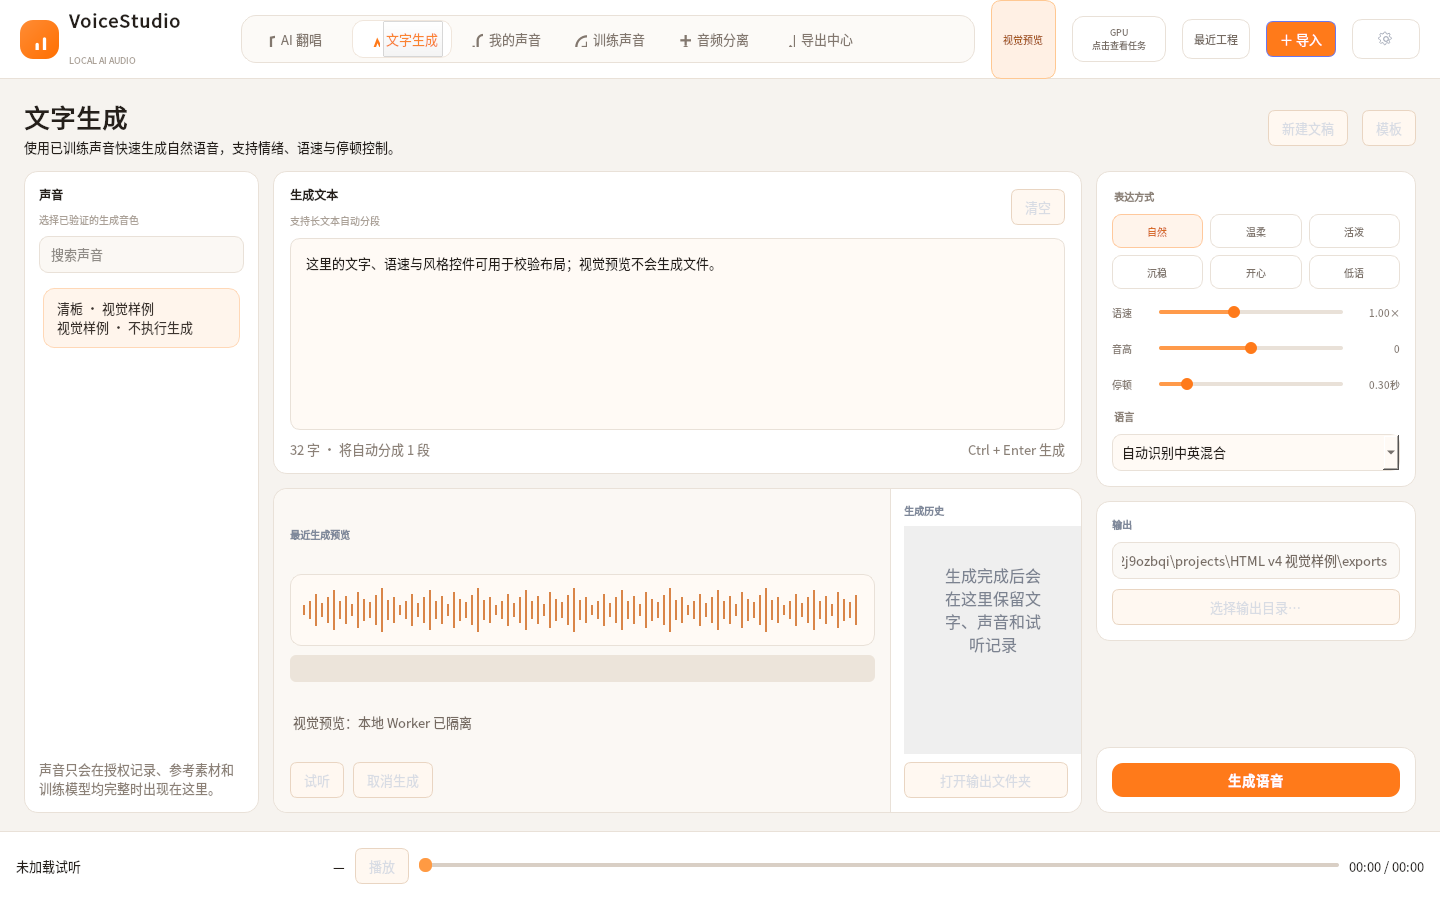
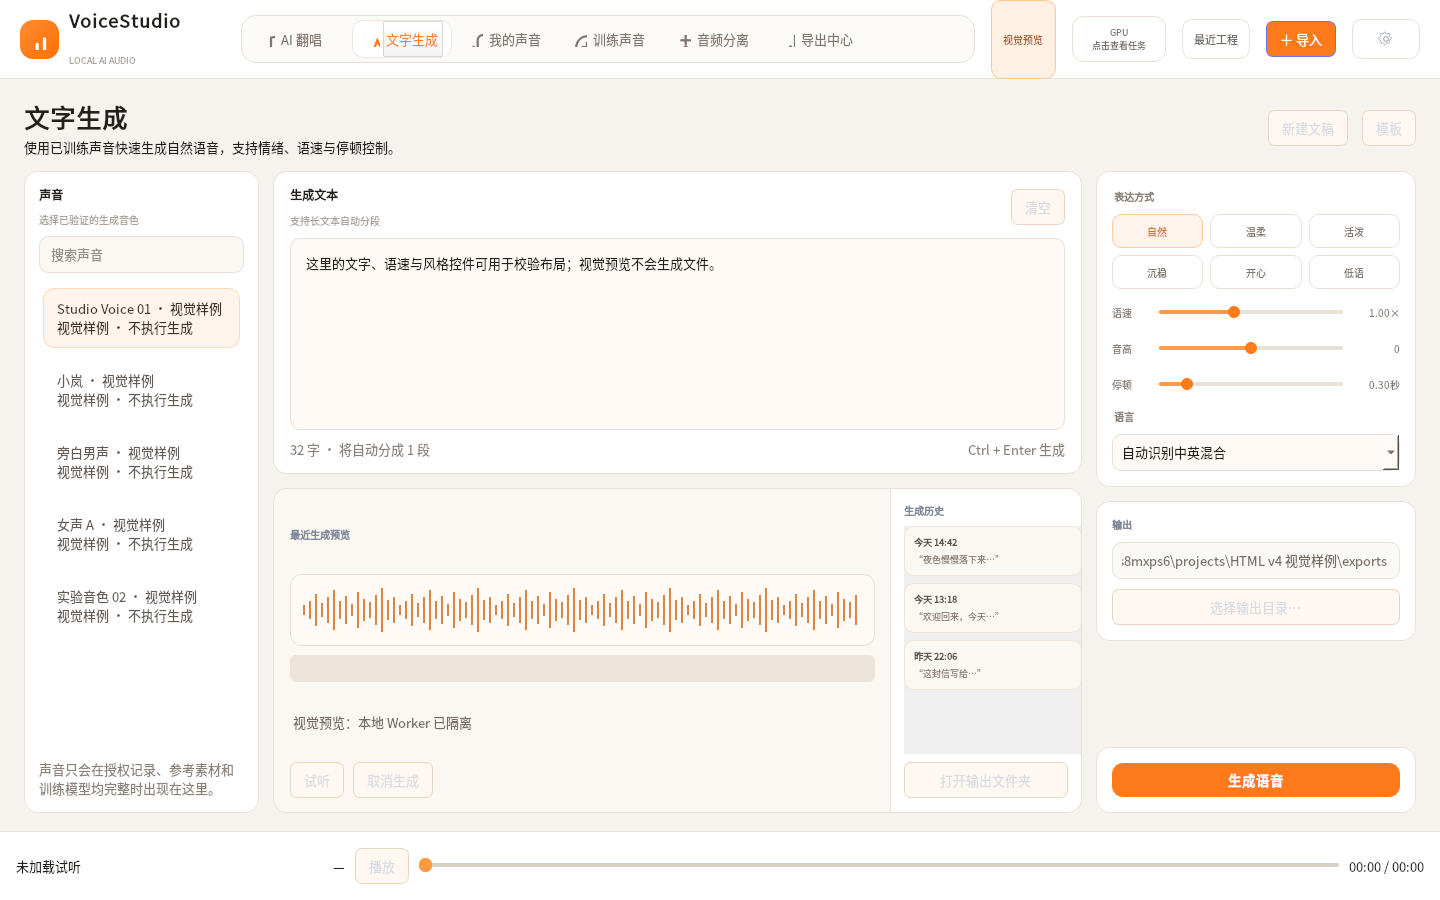
style(ui): fill HTML v4 visual preview samples

diff --git a/src/local_voice_studio/ui/preview.py b/src/local_voice_studio/ui/preview.py
@@ -151,11 +151,25 @@ def apply_preview_presentation(window) -> None:
     generate = window.generate_page
     generate.ui_preview = True
     generate.empty.hide(); generate.form.show()
-    generate.profile.addItem("清栀 · 视觉样例", "preview-voice")
+    generate.profile.clear()
+    for index, name in enumerate(("Studio Voice 01", "小岚", "旁白男声", "女声 A", "实验音色 02")):
+        generate.profile.addItem(f"{name} · 视觉样例", f"preview-voice-{index}")
     generate._populate_voice_rows()
     generate.text.setPlainText("这里的文字、语速与风格控件可用于校验布局；视觉预览不会生成文件。")
     generate.preview_wave.set_visual_sample(True)
     generate.generation_status.setText("视觉预览：本地 Worker 已隔离")
+    history_content = QFrame()
+    history_layout = QVBoxLayout(history_content)
+    history_layout.setContentsMargins(0, 0, 0, 0)
+    history_layout.setSpacing(7)
+    for stamp, excerpt in (("今天 14:42", "夜色慢慢落下来…"), ("今天 13:18", "欢迎回来，今天…"), ("昨天 22:06", "这封信写给…")):
+        item = QFrame(); item.setObjectName("ttsHistoryItem")
+        item_layout = QVBoxLayout(item); item_layout.setContentsMargins(9, 9, 9, 9); item_layout.setSpacing(4)
+        title = QLabel(stamp); title.setObjectName("ttsHistoryItemTitle"); item_layout.addWidget(title)
+        copy = QLabel(f"“{excerpt}”"); copy.setObjectName("ttsHistoryItemText"); copy.setWordWrap(True); item_layout.addWidget(copy)
+        history_layout.addWidget(item)
+    history_layout.addStretch()
+    generate.history.setWidget(history_content)
 
     separator = window.separator_page
     def clear_layout(layout) -> None:
